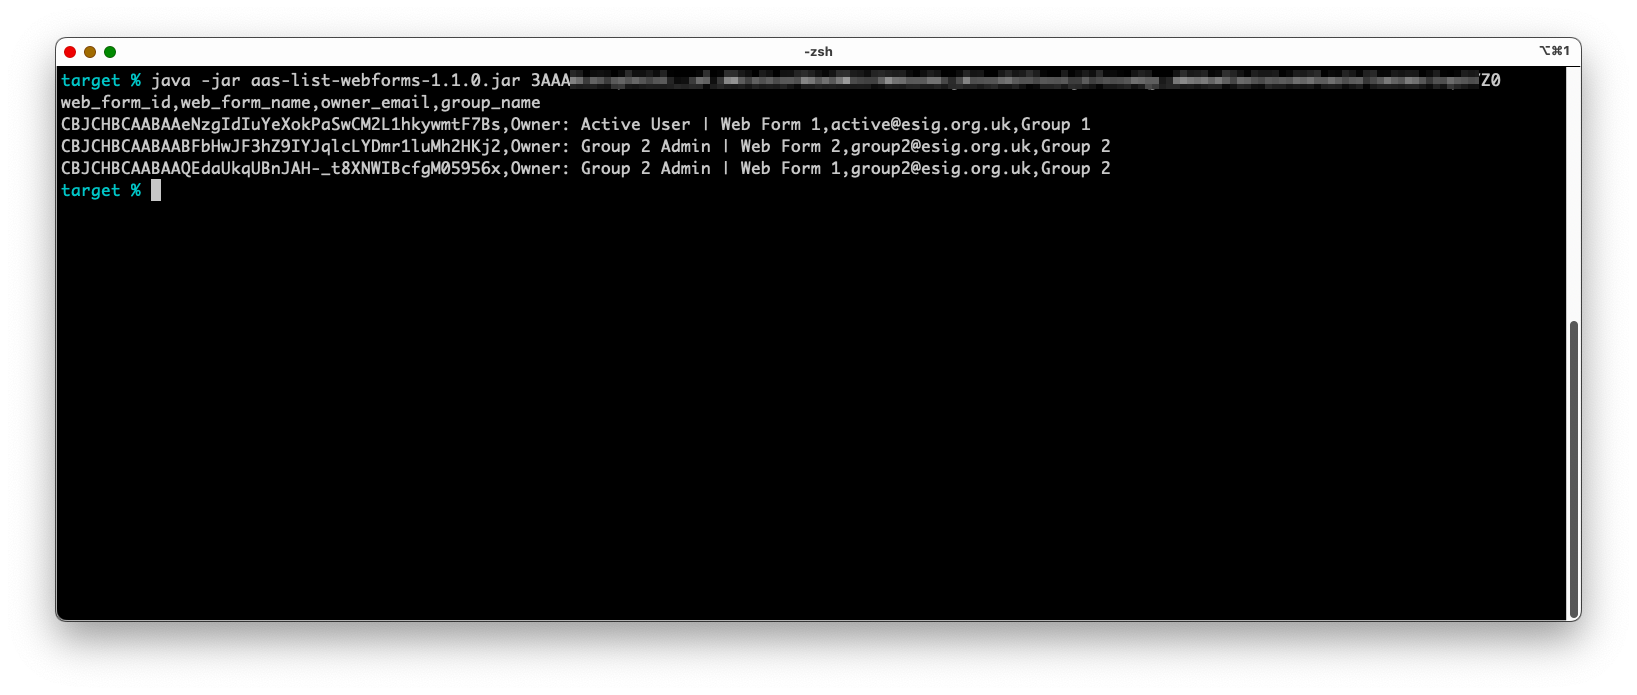
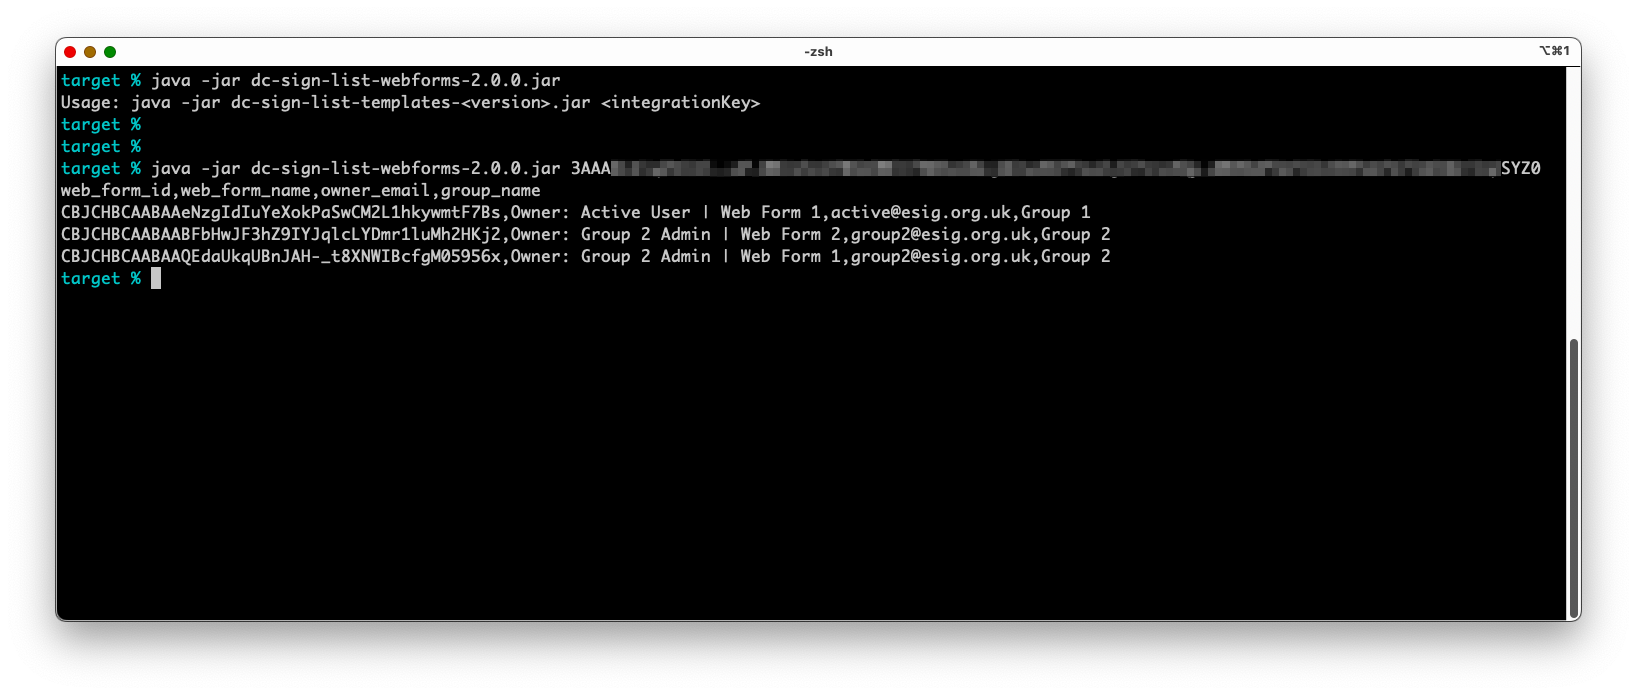
Rename to dc-sign- prefix

Changed region(s): [[0.0312, 0.0906, 0.9346, 0.423], [0.9346, 0.4532, 0.9658, 0.4835]]

diff --git a/src/main/java/uk/org/esig/adobe/widgets/ListWidgets.java b/src/main/java/uk/org/esig/adobe/widgets/ListWidgets.java
@@ -1,3 +1,23 @@
+/************************************************************************
+ *
+ * ADOBE CONFIDENTIAL
+ * ___________________
+ *
+ * Copyright 2023 Adobe
+ * All Rights Reserved.
+ *
+ * NOTICE: All information contained herein is, and remains
+ * the property of Adobe and its suppliers, if any. The intellectual
+ * and technical concepts contained herein are proprietary to Adobe
+ * and its suppliers and are protected by all applicable intellectual
+ * property laws, including trade secret and copyright laws.
+ * Dissemination of this information or reproduction of this material
+ * is strictly forbidden unless prior written permission is obtained
+ * from Adobe.
+
+ *************************************************************************
+ */
+
 package uk.org.esig.adobe.widgets;
 
 import io.swagger.client.api.BaseUrisApi;
@@ -16,6 +36,7 @@ import io.swagger.client.model.widgets.UserWidget;
 import io.swagger.client.model.widgets.UserWidgets;
 import org.apache.commons.csv.CSVFormat;
 
+import java.nio.charset.CharsetEncoder;
 import java.nio.charset.StandardCharsets;
 import java.util.HashMap;
 import java.util.List;
@@ -25,13 +46,14 @@ public class ListWidgets {
     private static final String API_PATH = "api/rest/v6";
     private static final String API_URL = "https://api.adobesign.com/";
     private static final String API_USER_PREFIX = "email:";
+    private static final CharsetEncoder ASCII_ENCODER = StandardCharsets.US_ASCII.newEncoder();
     private static final String BEARER = "Bearer ";
     private static final int CAPACITY = 20000;
     private static final int PAGE_SIZE = 1000;
     private static final String SANDBOX = "--sandbox";
     private static final String SANDBOX_API_URL = "https://api.adobesignsandbox.com/";
     private static final int TIMEOUT = 300000;
-    private static final String USAGE = "Usage: java -jar aas-list-templates-<version>.jar <integrationKey>";
+    private static final String USAGE = "Usage: java -jar dc-sign-list-templates-<version>.jar <integrationKey>";
 
     public static void main(String[] args) {
         if (args.length < 1 || args.length > 2) {
@@ -111,30 +133,30 @@ public class ListWidgets {
                 DetailedUserInfo detail = usersApi.getUserDetail(accessToken, userInfo.getId(), null);
                 if (detail != null && detail.getStatus().equals(DetailedUserInfo.StatusEnum.ACTIVE)) {
                     String email = userInfo.getEmail();
-                    if (StandardCharsets.US_ASCII.newEncoder().canEncode(email)) {
+                    if (ASCII_ENCODER.canEncode(email)) {
                         String apiUser = API_USER_PREFIX + email;
                         UserWidgets widgets = widgetsApi.getWidgets(accessToken,
-                                apiUser,
-                                null,
-                                Boolean.FALSE,
-                                null,
-                                PAGE_SIZE);
+                                                                    apiUser,
+                                                                    null,
+                                                                    Boolean.FALSE,
+                                                                    null,
+                                                                    PAGE_SIZE);
                         List<UserWidget> widgetList = widgets.getUserWidgetList();
                         while (widgetList != null && !widgetList.isEmpty()) {
                             for (UserWidget widget : widgetList) {
                                 System.out.println(format(widget.getId(),
-                                        widget.getName(),
-                                        email,
-                                        foundGroups.get(widget.getGroupId())));
+                                                          widget.getName(),
+                                                          email,
+                                                          foundGroups.get(widget.getGroupId())));
                             }
                             String widgetCursor = widgets.getPage().getNextCursor();
                             if (widgetCursor != null && !widgetCursor.isEmpty()) {
                                 widgets = widgetsApi.getWidgets(accessToken,
-                                        apiUser,
-                                        null,
-                                        Boolean.FALSE,
-                                        widgetCursor,
-                                        PAGE_SIZE);
+                                                                apiUser,
+                                                                null,
+                                                                Boolean.FALSE,
+                                                                widgetCursor,
+                                                                PAGE_SIZE);
                                 widgetList = widgets.getUserWidgetList();
                             } else {
                                 widgetList = null;

diff --git a/src/main/java/io/swagger/client/model/widgets/UserWidget.java b/src/main/java/io/swagger/client/model/widgets/UserWidget.java
@@ -1,3 +1,23 @@
+/************************************************************************
+ *
+ * ADOBE CONFIDENTIAL
+ * ___________________
+ *
+ * Copyright 2023 Adobe
+ * All Rights Reserved.
+ *
+ * NOTICE: All information contained herein is, and remains
+ * the property of Adobe and its suppliers, if any. The intellectual
+ * and technical concepts contained herein are proprietary to Adobe
+ * and its suppliers and are protected by all applicable intellectual
+ * property laws, including trade secret and copyright laws.
+ * Dissemination of this information or reproduction of this material
+ * is strictly forbidden unless prior written permission is obtained
+ * from Adobe.
+
+ *************************************************************************
+ */
+
 package io.swagger.client.model.widgets;
 
 import java.util.Objects;
@@ -263,8 +283,8 @@ public class UserWidget {
     public String toString() {
         StringBuilder sb = new StringBuilder();
         sb.append("class UserWidget {\n");
-
         sb.append("    id: ").append(toIndentedString(id)).append("\n");
+        sb.append("    groupId: ").append(toIndentedString(groupId)).append("\n");
         sb.append("    hidden: ").append(toIndentedString(hidden)).append("\n");
         sb.append("    javascript: ").append(toIndentedString(javascript)).append("\n");
         sb.append("    modifiedDate: ").append(toIndentedString(modifiedDate)).append("\n");

diff --git a/CODE_OF_CONDUCT.md b/CODE_OF_CONDUCT.md
@@ -1,0 +1,74 @@
+# Adobe Code of Conduct
+
+## Our Pledge
+
+In the interest of fostering an open and welcoming environment, we as
+contributors and maintainers pledge to making participation in our project and
+our community a harassment-free experience for everyone, regardless of age, body
+size, disability, ethnicity, gender identity and expression, level of experience,
+nationality, personal appearance, race, religion, or sexual identity and
+orientation.
+
+## Our Standards
+
+Examples of behavior that contributes to creating a positive environment
+include:
+
+* Using welcoming and inclusive language.
+* Being respectful of differing viewpoints and experiences.
+* Gracefully accepting constructive criticism.
+* Focusing on what is best for the community.
+* Showing empathy towards other community members.
+
+Examples of unacceptable behavior by participants include:
+
+* The use of sexualized language or imagery and unwelcome sexual attention or
+advances.
+* Trolling, insulting/derogatory comments, and personal or political attacks.
+* Public or private harassment.
+* Publishing others' private information, such as a physical or electronic
+  address, without explicit permission.
+* Other conduct which could reasonably be considered inappropriate in a
+  professional setting.
+
+## Our Responsibilities
+
+Project maintainers are responsible for clarifying the standards of acceptable
+behavior and are expected to take appropriate and fair corrective action in
+response to any instances of unacceptable behavior.
+
+Project maintainers have the right and responsibility to remove, edit, or
+reject comments, commits, code, wiki edits, issues, and other contributions
+that are not aligned to this Code of Conduct, or to ban temporarily or
+permanently any contributor for other behaviors that they deem inappropriate,
+threatening, offensive, or harmful.
+
+## Scope
+
+This Code of Conduct applies both within project spaces and in public spaces
+when an individual is representing the project or its community. Examples of
+representing a project or community include using an official project e-mail
+address, posting via an official social media account, or acting as an appointed
+representative at an online or offline event. Representation of a project may be
+further defined and clarified by project maintainers.
+
+## Enforcement
+
+Instances of abusive, harassing, or otherwise unacceptable behavior may be
+reported by contacting the project team at Grp-opensourceoffice@adobe.com. All
+complaints will be reviewed and investigated and will result in a response that
+is deemed necessary and appropriate to the circumstances. The project team is
+obligated to maintain confidentiality with regard to the reporter of an incident.
+Further details of specific enforcement policies may be posted separately.
+
+Project maintainers who do not follow or enforce the Code of Conduct in good
+faith may face temporary or permanent repercussions as determined by other
+members of the project's leadership.
+
+## Attribution
+
+This Code of Conduct is adapted from the [Contributor Covenant][homepage], version 1.4,
+available at [https://contributor-covenant.org/version/1/4][version].
+
+[homepage]: https://contributor-covenant.org
+[version]: https://contributor-covenant.org/version/1/4/

diff --git a/README.md b/README.md
@@ -1,4 +1,4 @@
-# aas-list-webforms
+# dc-sign-list-webforms
 
 ## Introduction
 
@@ -6,7 +6,7 @@ This Java-based command-line tool provides a simple method to list all the webfo
 
 ## Set-Up Instructions
 
-+ Download the latest release of the `aas-list-webforms-<version>.jar` from the [Releases](https://git.corp.adobe.com/sign-acs/aas-list-webforms/releases) page
++ Download the latest release of the `dc-sign-list-webforms-<version>.jar` from the [Releases](https://git.corp.adobe.com/sign-acs/dc-sign-list-webforms/releases) page
 + [Download Java 1.8](https://www.oracle.com/java/technologies/javase/javase8-archive-downloads.html), if you don't already have it installed on your machine
 + [IP Addresses to add to your allow list](https://helpx.adobe.com/sign/system-requirements.html#IPs), if needed
 
@@ -31,7 +31,7 @@ To do this, follow the steps below:
   + `[--sandbox]` optional flag if the integration key is for a Sandbox account
 
 ```sh
-java -jar aas-list-webforms-<version>.jar <integrationKey> [--sandbox]
+java -jar dc-sign-list-webforms-<version>.jar <integrationKey> [--sandbox]
 ```
 
 Assuming you have specified the required parameters correctly, then you should see output similar to that below:
@@ -41,7 +41,7 @@ Assuming you have specified the required parameters correctly, then you should s
 Note that the output is deliberately concise to support redirecting output to a CSV file which can then be opened in programs such as Microsoft Excel.
 
 ```sh
-java -jar aas-list-webforms-<version>.jar <integrationKey> > output.csv
+java -jar dc-sign-list-webforms-<version>.jar <integrationKey> > output.csv
 ```
 
 ## Building
@@ -65,3 +65,9 @@ Once this has completed, clone this repository and build the package by issuing:
 cd <location-of-cloned-tool-repo>
 mvn clean package
 ```
+
+## Contributing
+Contributions are welcomed! Read the [Contributing Guide](CODE_OF_CONDUCT.md) for more information.
+
+## Licensing
+This project is licensed under the Apache V2 License. See [LICENSE](LICENSE) for more information.
